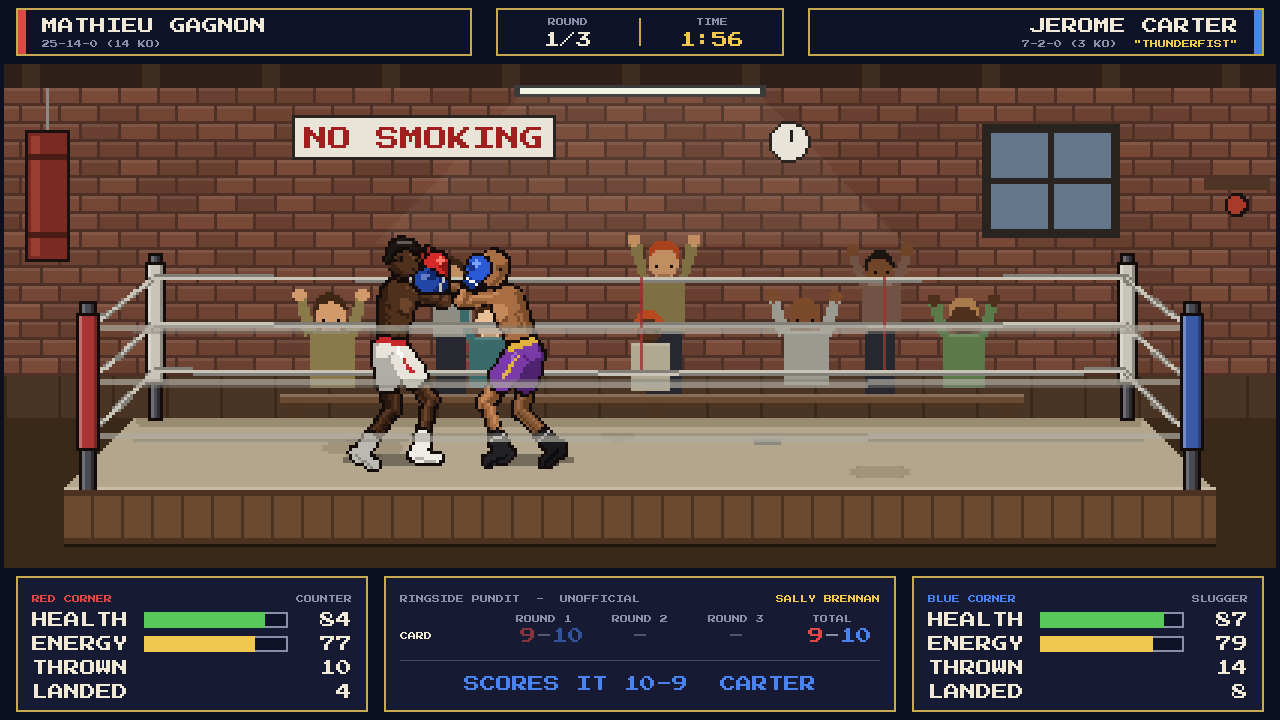
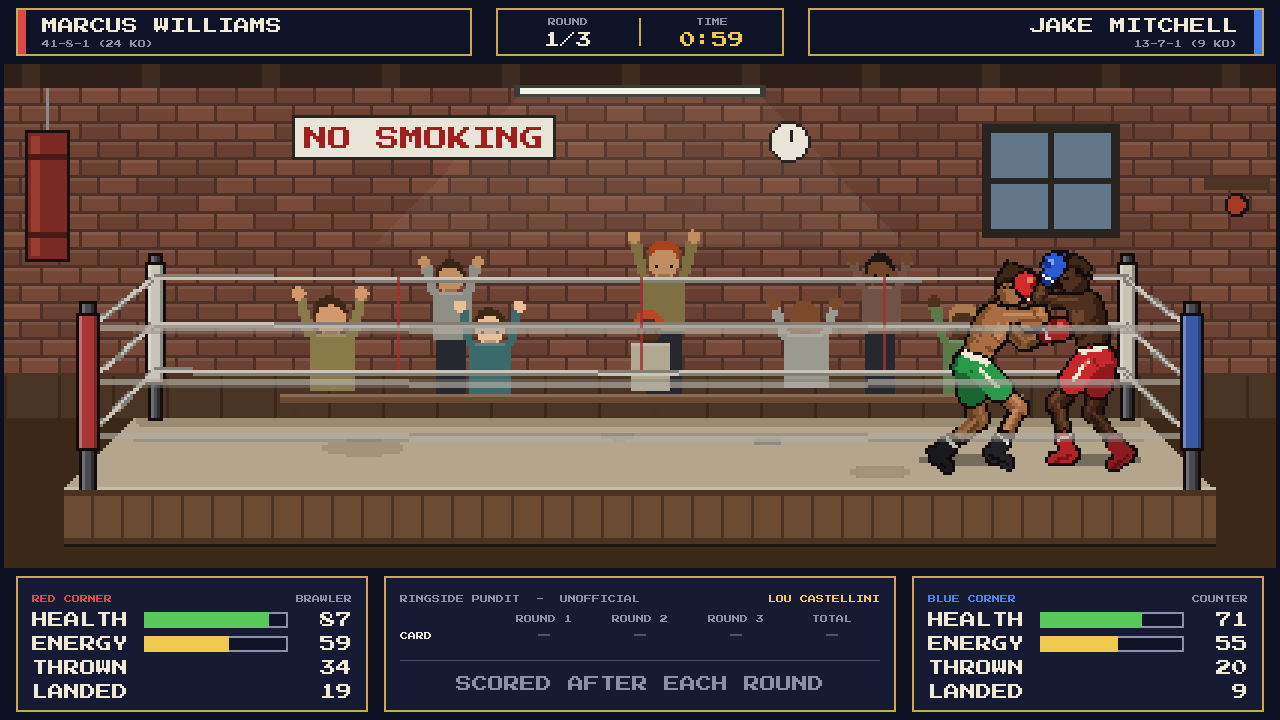
Big punches, skill-based blocking, end-of-round pundit, slower verdict
- Big punches: rare power punches (about 1-2 per boxer a fight) built up
  by a run of clean punches, a tiring opponent, a dropped guard or a good
  counter. 1.6-2x damage, twice the knockdown chance, an impact flash, a
  heavier thud and a crowd roar. Plain knockdown chance eased so stoppage
  rates stay sensible (about 22% / 23% / 38% by division).
- Blocking depends on the defender's intelligence and speed against the
  puncher's intelligence; covering up can catch body shots on the elbows.
- The pundit's card is only filled in when the bell ends each round.
- Verdict: a second more before each score and before the name, lead-in
  at 24 px and the payoff at 32 px.
- Ceremony: boxers and referee stand in the middle of the canvas and are
  drawn at 90% size.
- Face-on arms grow out of the shoulder: no outline where the upper arm
  meets the body, a soft crease against the torso.
- --show=big capture mode; README updated.

Claude-Session: https://claude.ai/code/session_01PF6KKrB4uHprcLjw7ppdzy

diff --git a/README.md b/README.md
@@ -51,6 +51,16 @@ preset under *Project > Export*.
   one of four instructions (*attack more*, *defend more*, *keep it up*,
   *go all out*), and it appears in a speech bubble. It changes how the boxer
   fights the next round.
+* Punches can land clean, be slipped, or be **blocked**. A boxer who covers
+  up blocks most head shots (and catches some body shots on his elbows);
+  how well depends on his intelligence and speed against the puncher's
+  intelligence.
+* Now and then a **big punch** lands: far more damage, twice the chance of a
+  knockdown, a flash where it lands, a heavy thud and the crowd roaring in
+  anticipation. They are rare (one or two per boxer in a fight) and come
+  from a run of clean punches, an opponent running out of gas, a dropped
+  guard (hurt, showboating or hands down) or a good counter; harder
+  punchers and smarter boxers make more of them.
 * Knockdowns get a count. A boxer may make it to one knee and then stand, or
   stay down. Three knockdowns in one round stops the fight.
 * When the fight ends, both boxers and the referee turn to face the crowd in
@@ -85,8 +95,10 @@ when a boxer comes from the judge's own country.
 The official cards are **secret until the final bell**. During the fight the
 panel shows a **TV pundit's unofficial card** instead. Five pundits share the
 job, each with a secret accuracy rating: they score like a neutral judge with
-a little error, so the card is a good guide with the occasional bad call. The
-round-by-round official cards replace it once the winner is announced.
+a little error, so the card is a good guide with the occasional bad call.
+Like a real card it is only filled in when the bell ends each round. The
+official cards replace it when the verdict is read, one judge at a time,
+with a pause before each score and before the winner's name.
 
 Knockdown rounds are scored the way real judges do it: the boxer who scored the
 knockdown wins the round, 10-8 if he was clearly winning it anyway, otherwise
@@ -105,8 +117,8 @@ Every boxer has six skills from 1 to 99 and a fighting style.
 
 | Skill        | What it does in a fight                                              |
 |--------------|----------------------------------------------------------------------|
-| Power        | Damage per punch                                                     |
-| Speed        | How fast punches land, footwork, how often he gets to make a choice  |
+| Power        | Damage per punch; more big punches                                   |
+| Speed        | How fast punches land, footwork, blocking, how often he gets to act  |
 | Stamina      | How slowly energy drains, so how slowly the other skills drop        |
 | Chin         | How well big head shots are absorbed; how fast he beats the count    |
 | Strength     | How little being hit drains energy and wears down the other skills   |
@@ -152,8 +164,8 @@ record, style, height, weight, all six skills and an overall rating (with any
 nickname under the name), and the whole division lined up face-on in the ring
 underneath, weigh-in style, numbered to match the table.
 
-Over 400 simulated fights per division, stoppages ended about 16% of
-lightweight fights, 21% of middleweight fights and 36% of heavyweight fights.
+Over 400 simulated fights per division, stoppages ended about 22% of
+lightweight fights, 23% of middleweight fights and 38% of heavyweight fights.
 
 ![The Boxers](docs/screenshots/boxers_heavyweight.png)
 
@@ -286,17 +298,17 @@ godot --path . scenes/fight.tscn -- --venue=2 --seed=21 --show=fight --capture=f
 
 Command-line options read by the game (after `--`):
 
-| Option             | Meaning                                                   |
-|--------------------|-----------------------------------------------------------|
-| `--seed=<n>`       | Fixed random seed (same match-up and fight every time)    |
-| `--roster=<n>`     | Different starting rosters                                |
-| `--division=<0-2>` | 0 Lightweight, 1 Middleweight, 2 Heavyweight              |
-| `--tab=<0-2>`      | Which division tab the Boxers screen opens on             |
-| `--venue=<0-3>`    | 0 Small Town Gym, 1 City Gym, 2 Boxing Hall, 3 Grand Arena |
-| `--capture=<png>`  | Fast-forward, save a screenshot and quit                  |
-| `--show=<moment>`  | What to capture: `menu`, `roster`, `intro`, `fight`, `break`, `count`, `announce`, `result` |
-| `--wait=<seconds>` | Real seconds to wait before the shot (e.g. mid read-out)  |
-| `--at=<seconds>`   | Earliest real second of round 1 to capture (default 20)   |
+| Option             | Meaning                                                                                                                  |
+|--------------------|--------------------------------------------------------------------------------------------------------------------------|
+| `--seed=<n>`       | Fixed random seed (same match-up and fight every time)                                                                   |
+| `--roster=<n>`     | Different starting rosters                                                                                               |
+| `--division=<0-2>` | 0 Lightweight, 1 Middleweight, 2 Heavyweight                                                                             |
+| `--tab=<0-2>`      | Which division tab the Boxers screen opens on                                                                            |
+| `--venue=<0-3>`    | 0 Small Town Gym, 1 City Gym, 2 Boxing Hall, 3 Grand Arena                                                               |
+| `--capture=<png>`  | Fast-forward, save a screenshot and quit                                                                                 |
+| `--show=<moment>`  | What to capture: `menu`, `roster`, `intro`, `fight`, `big` (a big punch landing), `break`, `count`, `announce`, `result` |
+| `--wait=<seconds>` | Real seconds to wait before the shot (e.g. mid read-out)                                                                 |
+| `--at=<seconds>`   | Earliest real second of round 1 to capture (default 20)                                                                  |
 
 ### Code style
 
